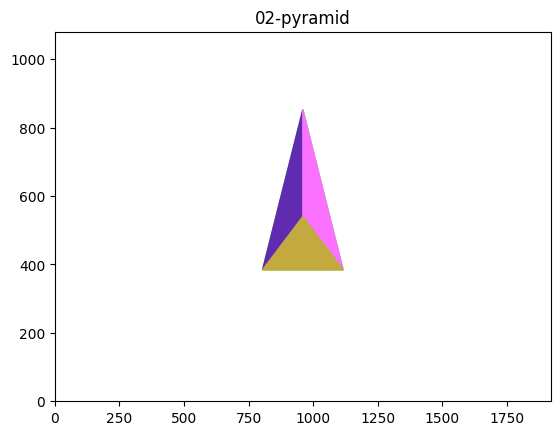
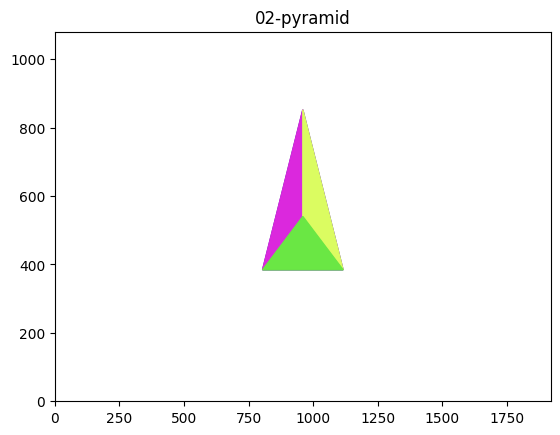
Tudo_Exceto_Opcional

Changed region(s): [[0.4554, 0.2391, 0.6375, 0.6276]]

diff --git a/entrypoints/03-grandchild.py b/entrypoints/03-grandchild.py
@@ -16,8 +16,42 @@ if __name__ == "__main__":
 
     # Crie a cena
 
+    cube = urenderer.node.Node()
+
+    cube.translation = np.array([0, 0, -5], np.float64)
+    cube.rotation = np.array([45, 45, 45], np.float64)
+    cube.render_data = urenderer.geometry.polygonal_ifs.get_ifs_cube()
+
+    runtime.scene.add_child(cube)
+
+    pyramid_1 = urenderer.node.Node()
+
+    pyramid_1.translation = np.array([2, -1, 1], np.float64)
+    pyramid_1.rotation = np.array([45, 0, 0], np.float64)
+    pyramid_1.render_data = urenderer.geometry.polygonal_ifs.get_ifs_pyramid()
+
+    cube.add_child(pyramid_1)
+
+    pyramid_2 = urenderer.node.Node()
+
+    pyramid_2.translation = np.array([1, -2, -3], np.float64)
+    pyramid_2.rotation = np.array([45, 0, 0], np.float64)
+    pyramid_2.render_data = urenderer.geometry.polygonal_ifs.get_ifs_pyramid()
+
+    pyramid_1.add_child(pyramid_2)
+
+    '''
+    pyramid_2 = urenderer.node.Node()
+
+    pyramid_2.translation = np.array([-1, 0, -3], np.float64)
+    pyramid_2.render_data = urenderer.geometry.polygonal_ifs.get_ifs_pyramid()
+
+    pyramid_1.add_child(pyramid_2)
+    '''
+
     runtime.iter(capture=True)
 
     # Rotacione o nó avô
+    cube.rotation = np.array([45, 0, 0], np.float64)
 
     runtime.iter(capture=True)

diff --git a/entrypoints/04-intersection.py b/entrypoints/04-intersection.py
@@ -16,5 +16,20 @@ if __name__ == "__main__":
     runtime = urenderer.application.Runtime(renderer, name="04-intersection")
 
     # Crie a cena
+    cube_1 = urenderer.node.Node()
+
+    cube_1.translation = np.array([0, 0, -5], np.float64)
+    cube_1.rotation = np.array([45, 45, 45], np.float64)
+    cube_1.render_data = urenderer.geometry.polygonal_ifs.get_ifs_cube()
+
+    runtime.scene.add_child(cube_1)
+
+    cube_2 = urenderer.node.Node()
+
+    cube_2.translation = np.array([0.5, 1, 0], np.float64)
+    cube_2.rotation = np.array([45, 45, 45], np.float64)
+    cube_2.render_data = urenderer.geometry.polygonal_ifs.get_ifs_cube()
+
+    cube_1.add_child(cube_2)
 
     runtime.iter(capture=True)
